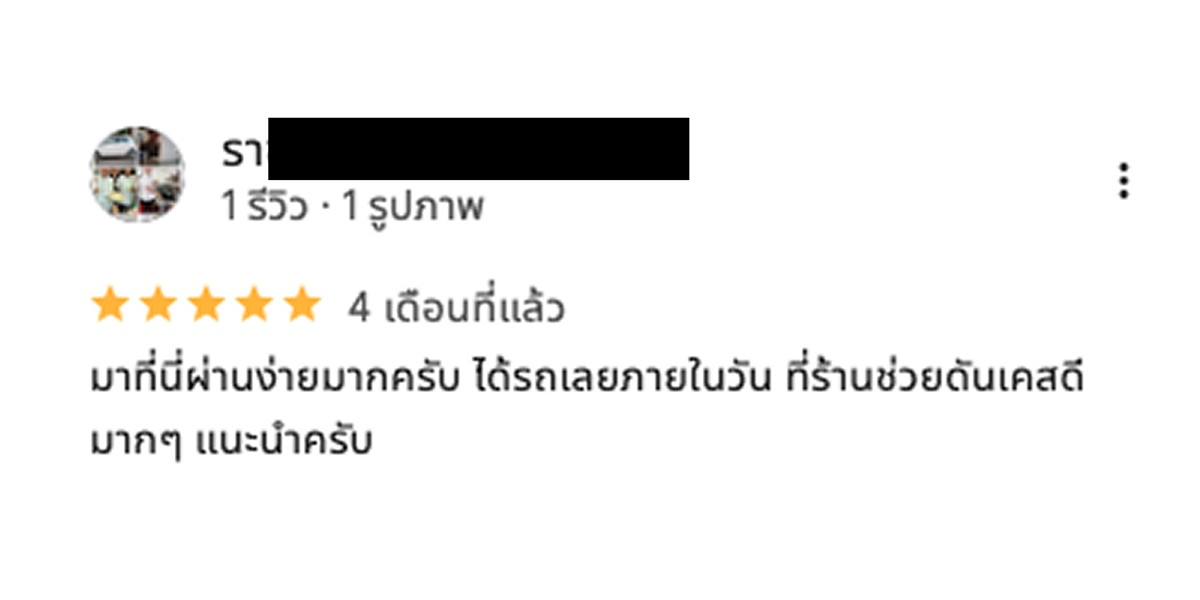
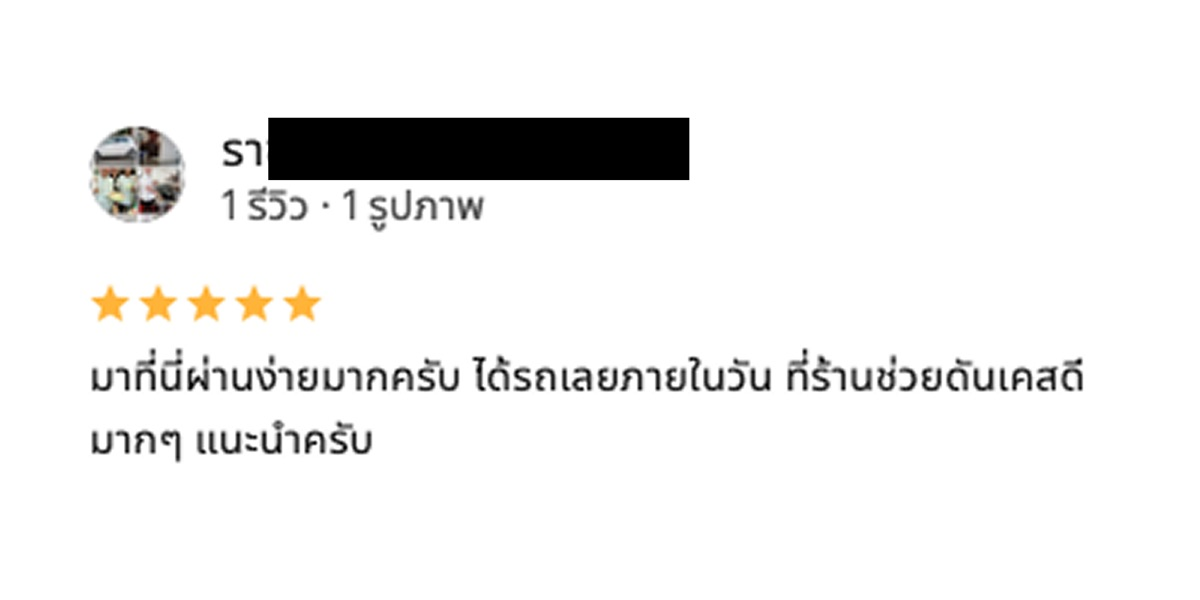
Swap in dateless review images and slide them
Replace all nine review screenshots with the set that has the dates
removed, optimized the same way as before: 2000x1000 down to 1200x600,
about 170 KB down to 42 KB each.

The grid becomes a second slider. It reuses .carousel-track for scroll and
snap, with a .review-carousel modifier overriding two things the square
slider assumes: these images are 2:1, so aspect-ratio and object-fit have
to change or the review text is cropped, and the slides are wider so that
text stays readable (560px on desktop against 343px in the old grid).
Slide width uses the same 80vw as the slider above, so the next review
peeks by an identical 27px at 375px and reads as swipeable.

Section height on mobile drops from 2392px to 821px.

Changed region(s): [[0.2775, 0.48, 0.4933, 0.54], [0.925, 0.27, 0.9558, 0.33]]

diff --git a/template.html b/template.html
@@ -264,8 +264,8 @@
   <!-- 3c. ครอบครัวเกินร้อย — ภาพความประทับใจ + ภาพรีวิวจริงจาก Google  -->
   <!--    เพิ่มรูปสไลด์: อัปโหลดเข้า images/ แล้วคัดลอกบล็อก carousel-slide -->
   <!--    Add a slide: upload to images/ then copy a carousel-slide block -->
-  <!--    เพิ่มรูปรีวิว: อัปโหลดเข้า images/ แล้วคัดลอกบล็อก <li> ใน review-gallery -->
-  <!--    Add a review image: upload to images/ then copy an <li> block  -->
+  <!--    เพิ่มรูปรีวิว: อัปโหลดเข้า images/ แล้วคัดลอกบล็อก carousel-slide ในสไลด์รีวิว -->
+  <!--    Add a review image: upload to images/ then copy a slide block   -->
   <!--    สำคัญ: ใช้ภาพรีวิวจริงเท่านั้น ห้ามแต่งดาว/คะแนน/วันที่          -->
   <!--    IMPORTANT: real review screenshots only - no invented stars,   -->
   <!--    ratings or dates                                              -->
@@ -301,75 +301,75 @@
       </div>
 
       <!-- ================================================================ -->
-      <!--    รูปรีวิวจริงจาก Google — 1 คอลัมน์บนมือถือ ถึง 3 คอลัมน์บนจอกว้าง   -->
-      <!--    Google review screenshots: 1 column on phones, up to 3 when wide -->
+      <!--    รูปรีวิวจริงจาก Google — สไลด์ ปัดซ้าย-ขวาเพื่อดูรีวิวถัดไป          -->
+      <!--    Google review screenshots in a slider; swipe sideways for more  -->
       <!-- ================================================================ -->
-      <ul class="review-gallery">
+      <div class="carousel-track review-carousel" role="region" aria-label="ภาพรีวิวจากลูกค้าบน Google" tabindex="0">
 
         <!-- COPY FROM HERE / คัดลอกตั้งแต่ตรงนี้: รูปรีวิว 1 รูป -->
-        <li>
+        <figure class="carousel-slide">
           <!-- SWAP IMAGE / เปลี่ยนรูปตรงนี้: เปลี่ยน src ด้านล่างเป็น images/รูปของคุณ.jpg -->
           <img src="images/review-1.jpg" alt="รีวิว 5 ดาวจากลูกค้าบน Google เกี่ยวกับบริการของ{{SHOP_NAME}}" width="1200" height="600" loading="lazy">
-        </li>
+        </figure>
         <!-- TO HERE / ถึงตรงนี้: สิ้นสุดรูปรีวิว 1 รูป -->
 
         <!-- COPY FROM HERE / คัดลอกตั้งแต่ตรงนี้: รูปรีวิว 1 รูป -->
-        <li>
+        <figure class="carousel-slide">
           <!-- SWAP IMAGE / เปลี่ยนรูปตรงนี้: เปลี่ยน src ด้านล่างเป็น images/รูปของคุณ.jpg -->
           <img src="images/review-2.jpg" alt="รีวิว 5 ดาวจากลูกค้าบน Google เกี่ยวกับบริการของ{{SHOP_NAME}}" width="1200" height="600" loading="lazy">
-        </li>
+        </figure>
         <!-- TO HERE / ถึงตรงนี้: สิ้นสุดรูปรีวิว 1 รูป -->
 
         <!-- COPY FROM HERE / คัดลอกตั้งแต่ตรงนี้: รูปรีวิว 1 รูป -->
-        <li>
+        <figure class="carousel-slide">
           <!-- SWAP IMAGE / เปลี่ยนรูปตรงนี้: เปลี่ยน src ด้านล่างเป็น images/รูปของคุณ.jpg -->
           <img src="images/review-3.jpg" alt="รีวิว 5 ดาวจากลูกค้าบน Google เกี่ยวกับบริการของ{{SHOP_NAME}}" width="1200" height="600" loading="lazy">
-        </li>
+        </figure>
         <!-- TO HERE / ถึงตรงนี้: สิ้นสุดรูปรีวิว 1 รูป -->
 
         <!-- COPY FROM HERE / คัดลอกตั้งแต่ตรงนี้: รูปรีวิว 1 รูป -->
-        <li>
+        <figure class="carousel-slide">
           <!-- SWAP IMAGE / เปลี่ยนรูปตรงนี้: เปลี่ยน src ด้านล่างเป็น images/รูปของคุณ.jpg -->
           <img src="images/review-4.jpg" alt="รีวิว 5 ดาวจากลูกค้าบน Google เกี่ยวกับบริการของ{{SHOP_NAME}}" width="1200" height="600" loading="lazy">
-        </li>
+        </figure>
         <!-- TO HERE / ถึงตรงนี้: สิ้นสุดรูปรีวิว 1 รูป -->
 
         <!-- COPY FROM HERE / คัดลอกตั้งแต่ตรงนี้: รูปรีวิว 1 รูป -->
-        <li>
+        <figure class="carousel-slide">
           <!-- SWAP IMAGE / เปลี่ยนรูปตรงนี้: เปลี่ยน src ด้านล่างเป็น images/รูปของคุณ.jpg -->
           <img src="images/review-5.jpg" alt="รีวิว 5 ดาวจากลูกค้าบน Google เกี่ยวกับบริการของ{{SHOP_NAME}}" width="1200" height="600" loading="lazy">
-        </li>
+        </figure>
         <!-- TO HERE / ถึงตรงนี้: สิ้นสุดรูปรีวิว 1 รูป -->
 
         <!-- COPY FROM HERE / คัดลอกตั้งแต่ตรงนี้: รูปรีวิว 1 รูป -->
-        <li>
+        <figure class="carousel-slide">
           <!-- SWAP IMAGE / เปลี่ยนรูปตรงนี้: เปลี่ยน src ด้านล่างเป็น images/รูปของคุณ.jpg -->
           <img src="images/review-6.jpg" alt="รีวิว 5 ดาวจากลูกค้าบน Google เกี่ยวกับบริการของ{{SHOP_NAME}}" width="1200" height="600" loading="lazy">
-        </li>
+        </figure>
         <!-- TO HERE / ถึงตรงนี้: สิ้นสุดรูปรีวิว 1 รูป -->
 
         <!-- COPY FROM HERE / คัดลอกตั้งแต่ตรงนี้: รูปรีวิว 1 รูป -->
-        <li>
+        <figure class="carousel-slide">
           <!-- SWAP IMAGE / เปลี่ยนรูปตรงนี้: เปลี่ยน src ด้านล่างเป็น images/รูปของคุณ.jpg -->
           <img src="images/review-7.jpg" alt="รีวิว 5 ดาวจากลูกค้าบน Google เกี่ยวกับบริการของ{{SHOP_NAME}}" width="1200" height="600" loading="lazy">
-        </li>
+        </figure>
         <!-- TO HERE / ถึงตรงนี้: สิ้นสุดรูปรีวิว 1 รูป -->
 
         <!-- COPY FROM HERE / คัดลอกตั้งแต่ตรงนี้: รูปรีวิว 1 รูป -->
-        <li>
+        <figure class="carousel-slide">
           <!-- SWAP IMAGE / เปลี่ยนรูปตรงนี้: เปลี่ยน src ด้านล่างเป็น images/รูปของคุณ.jpg -->
           <img src="images/review-8.jpg" alt="รีวิว 5 ดาวจากลูกค้าบน Google เกี่ยวกับบริการของ{{SHOP_NAME}}" width="1200" height="600" loading="lazy">
-        </li>
+        </figure>
         <!-- TO HERE / ถึงตรงนี้: สิ้นสุดรูปรีวิว 1 รูป -->
 
         <!-- COPY FROM HERE / คัดลอกตั้งแต่ตรงนี้: รูปรีวิว 1 รูป -->
-        <li>
+        <figure class="carousel-slide">
           <!-- SWAP IMAGE / เปลี่ยนรูปตรงนี้: เปลี่ยน src ด้านล่างเป็น images/รูปของคุณ.jpg -->
           <img src="images/review-9.jpg" alt="รีวิว 5 ดาวจากลูกค้าบน Google เกี่ยวกับบริการของ{{SHOP_NAME}}" width="1200" height="600" loading="lazy">
-        </li>
+        </figure>
         <!-- TO HERE / ถึงตรงนี้: สิ้นสุดรูปรีวิว 1 รูป -->
 
-      </ul>
+      </div>
 
       <div class="section-cta">
         <!-- EDIT ME / แก้ไขตรงนี้: ข้อความบนปุ่ม LINE ของส่วนนี้ (แก้ได้เฉพาะข้อความใน <span> — โลโก้และลิงก์ห้ามแก้) -->

diff --git a/style.css b/style.css
@@ -372,23 +372,20 @@ main > section:nth-of-type(even) { background: var(--color-surface-alt); }
 .faq-item h3 { font-size: 1.25rem; font-weight: 600; font-style: italic; margin-bottom: var(--space-xs); }
 .faq-item p { color: var(--color-text-muted); }
 
-/* รูปรีวิวจาก Google — 1 คอลัมน์บนมือถือ ขยายเป็น 2-3 คอลัมน์เมื่อจอกว้างพอ
-   auto-fit + minmax ทำให้เพิ่ม/ลบรูปได้โดยไม่ต้องแก้ CSS
-   Google review screenshots: one column on phones, growing to two or three
-   when there is room. auto-fit + minmax means pasted images reflow by themselves */
-.review-gallery {
-  list-style: none;
-  display: grid;
-  grid-template-columns: repeat(auto-fit, minmax(280px, 1fr));
-  gap: var(--space-md);
-  margin-bottom: var(--space-lg);
-}
-.review-gallery img {
-  display: block;
-  width: 100%; height: auto;
-  border: 1px solid var(--color-border);
-  border-radius: var(--radius);
+/* สไลด์ภาพรีวิว — ใช้พฤติกรรมเลื่อนเดียวกับสไลด์ด้านบน แต่รูปเป็นแนวนอน 2:1
+   จึงต้องทับ aspect-ratio 1:1 ของสไลด์ปกติ ไม่งั้นข้อความรีวิวจะโดนครอป
+   และให้กว้างกว่าเพื่อให้อ่านตัวหนังสือในรูปได้
+   Review slider: same scroll behaviour as the slider above, but these images
+   are 2:1 landscape, so the square aspect-ratio must be overridden or the
+   review text gets cropped. Slides are wider so the text stays readable. */
+.review-carousel .carousel-slide {
+  flex: 0 0 clamp(260px, 80vw, 560px);   /* 80vw เท่าสไลด์ด้านบน จึงเห็นรูปถัดไปแวบ ๆ / same 80vw as the slider above, so the next slide peeks */
   background: var(--color-bg);
+  border: 1px solid var(--color-border);
+}
+.review-carousel .carousel-slide img {
+  aspect-ratio: 2 / 1;
+  object-fit: contain;
 }
 
 /* ===== 5. GALLERY — ภาพหน้าร้าน ===== */

diff --git a/DESIGN.md b/DESIGN.md
@@ -140,14 +140,14 @@
 - **Layout**: mobile-first stacked; ที่ ≥768px รูปและข้อความจำกัด max-width และกึ่งกลาง — คงโครงเดียวกับมือถือ.
 
 ### รีวิวจากครอบครัวเกินร้อย (`#testimonials`)
-- **Structure**: `.section-title` (รีวิวจากครอบครัวเกินร้อย) → `.carousel-track` (ภาพรวมความประทับใจ) → `.review-gallery` (ภาพรีวิวจาก Google) → `.section-cta` เดียว. หัวข้อบอกเนื้อหาครบอยู่แล้วจึงไม่มีคำโปรยและไม่มีหัวข้อย่อยคั่น เนื้อหาทั้งหมดเป็นภาพ ไม่มีการ์ดรีวิวแบบข้อความแล้ว รีวิวลูกค้ากับรูปวันรับรถรวมอยู่ในส่วนเดียวกัน เพราะเล่าเรื่องเดียวกันคือลูกค้าจริงของร้าน (เดิมแยกเป็น `#delivery` ต่างหาก).
-- **Variants**: ภาพรวมความประทับใจใช้ `.carousel-slide` เลื่อนด้านข้างได้; ภาพรีวิวจาก Google ใช้ `.review-gallery` เป็นกริด `auto-fit` + `minmax(280px, 1fr)` ได้ 1 คอลัมน์บนมือถือ, 2 คอลัมน์ที่ 768px และ 3 คอลัมน์บนจอกว้าง ทั้งสองกลุ่มมีรั้ว COPY FROM HERE ของตัวเอง.
+- **Structure**: `.section-title` (รีวิวจากครอบครัวเกินร้อย) → `.carousel-track` (ภาพรวมความประทับใจ) → `.carousel-track.review-carousel` (ภาพรีวิวจาก Google) → `.section-cta` เดียว. หัวข้อบอกเนื้อหาครบอยู่แล้วจึงไม่มีคำโปรยและไม่มีหัวข้อย่อยคั่น เนื้อหาทั้งหมดเป็นภาพ ไม่มีการ์ดรีวิวแบบข้อความแล้ว รีวิวลูกค้ากับรูปวันรับรถรวมอยู่ในส่วนเดียวกัน เพราะเล่าเรื่องเดียวกันคือลูกค้าจริงของร้าน (เดิมแยกเป็น `#delivery` ต่างหาก).
+- **Variants**: ทั้งสองกลุ่มเป็นสไลด์เลื่อนด้านข้าง มีรั้ว COPY FROM HERE ของตัวเอง. `.review-carousel` ทับค่าของสไลด์ปกติสองอย่าง: รูปรีวิวเป็นแนวนอน 2:1 จึงใช้ `aspect-ratio: 2 / 1` กับ `object-fit: contain` (ถ้าใช้ 1:1 + cover ตามค่าเดิม ข้อความรีวิวจะโดนครอป) และสไลด์กว้างกว่า `clamp(260px, 80vw, 560px)` เพื่อให้อ่านตัวหนังสือในรูปได้ ใช้ `80vw` เท่ากับสไลด์ด้านบน รูปถัดไปจึงโผล่มาแวบ ๆ เท่ากัน (27px ที่จอ 375px) เป็นสัญญาณว่าเลื่อนต่อได้.
 - **Spacing**: `.carousel-track` มี `margin-bottom: --space-md` เพื่อไม่ให้ชนบล็อกถัดไป.
 - **Slide sizing**: `.carousel-slide` ใช้ `flex: 0 0 clamp(260px, 80vw, 360px)` ไม่ใช้ breakpoint ความกว้างจึงไหลต่อเนื่องและหยุดโตที่ 360px (เดิมเป็น `85%` แล้วกระโดดเป็น `31%` ที่ 768px ทำให้สไลด์หดฮวบทันที) รูปเป็นจัตุรัส ความสูงจึงเท่าความกว้างและสูงสุด 360px เช่นกัน.
 - **States**: carousel track มี focus-visible outline สำหรับการเลื่อนด้วยคีย์บอร์ด.
 - **Accessibility**: `.carousel-track` คง `role="region"`, `aria-label` ภาษาไทย และ `tabindex="0"`; รูปทุกใบมี alt ภาษาไทยพร้อม `{{SHOP_NAME}}`.
 - **Motion**: การเลื่อนเป็นการ scroll ปกติ ไม่มี autoplay.
-- **Layout**: แถบรูปเลื่อน แล้วกริดภาพรีวิว ปิดท้ายด้วยปุ่ม LINE เดียว (หนึ่ง `.line-cta` ต่อหนึ่ง section ตามสัญญาในเทสต์).
+- **Layout**: แถบรูปความประทับใจ แล้วแถบภาพรีวิว ปิดท้ายด้วยปุ่ม LINE เดียว (หนึ่ง `.line-cta` ต่อหนึ่ง section ตามสัญญาในเทสต์).
 
 ### Content Card
 - **Structure**: semantic `article`/`figure` หรือ contact `<a>` บน surface พร้อม border.

diff --git a/README.md b/README.md
@@ -77,7 +77,7 @@ Golden rule: edit everything through the GitHub website — no software to insta
 
 ใช้ได้กับ: การ์ดบริการ, รีวิวลูกค้าและรูปสไลด์ส่งมอบรถ (อยู่ในส่วน “ครอบครัวเกินร้อย” เดียวกัน), คำถาม FAQ, ช่องทางติดต่อใน `#contact` (โทรศัพท์/LINE/Facebook/TikTok) และตัวอย่างยี่ห้อ/รุ่นรถ (`<li class="chip">`)
 
-**รีวิวลูกค้า:** ส่วนรีวิวใช้ภาพทั้งหมด — ภาพรวมความประทับใจในสไลด์ และภาพแคปรีวิวจริงจาก Google ด้านล่าง เพิ่มรูปได้โดยอัปโหลดเข้า `images/` แล้วคัดลอกบล็อกตามรั้ว `COPY FROM HERE` ใช้ภาพรีวิวจริงเท่านั้น ห้ามแต่งดาว คะแนน หรือวันที่
+**รีวิวลูกค้า:** ส่วนรีวิวใช้ภาพทั้งหมด — ภาพรวมความประทับใจในสไลด์แรก และภาพแคปรีวิวจริงจาก Google ในสไลด์ที่สอง (ปัดซ้าย-ขวาเพื่อดูรีวิวถัดไป) เพิ่มรูปได้โดยอัปโหลดเข้า `images/` แล้วคัดลอกบล็อกตามรั้ว `COPY FROM HERE` ใช้ภาพรีวิวจริงเท่านั้น ห้ามแต่งดาว คะแนน หรือวันที่
 
 ---
 
